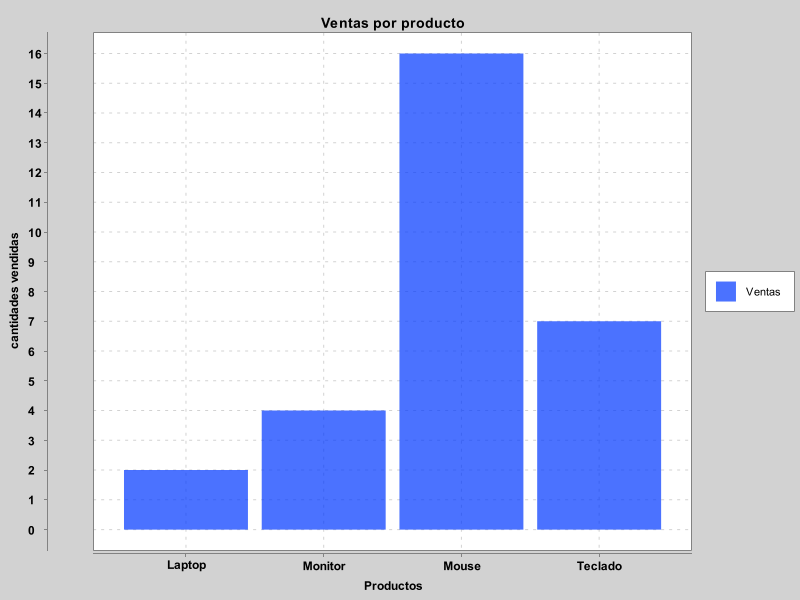
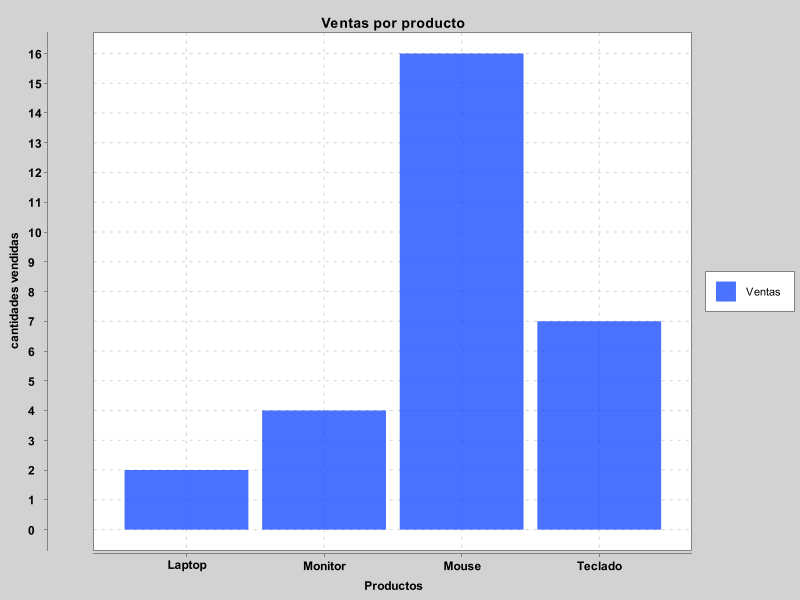
corregir cantidades double demasiado grandes

diff --git a/src/main/java/org/example/servicios/GeneradorDePrompt.java b/src/main/java/org/example/servicios/GeneradorDePrompt.java
@@ -1,11 +1,13 @@
 package org.example.servicios;
 import java.util.HashMap;
+import java.util.Locale;
 
 public class GeneradorDePrompt {
     private CalculadoraVenta calculadoraVenta;
     public GeneradorDePrompt(CalculadoraVenta calculadoraVenta){
         this.calculadoraVenta = calculadoraVenta;
     }
+
     // Genera una tabla con el nombre de cada producto y la cantidad total de unidades vendidas.
     public String generarTablaCantidades() {
 
@@ -28,21 +30,24 @@ public class GeneradorDePrompt {
         return tabla;
     }
     public String generarPrompt(){
-        double valorTotalVentas = calculadoraVenta.totalVentas();
-        int cantidadTotalVendida = calculadoraVenta.cantidadTotalVentas();
+        String valorTotalVentas = String.format(Locale.US, "%.1f", calculadoraVenta.totalVentas());
+
+        int cantidadTotalVendida = calculadoraVenta.cantidadTotalUnidadesVendidas();
         String productoMayoresGananciasBrutas = calculadoraVenta.productoMayoresGananciasBrutas();
         String productoMasVendido = calculadoraVenta.productoMasVendido();
         double valorPromedioVentas = calculadoraVenta.valorPromedioVentas();
         String tablaProductosxCantidades = generarTablaCantidades();
         String tablaProductosxValoresTotales = generarTablaValores();
+        int cantidadRegistros = calculadoraVenta.cantidadTotalVentas();
         String resumen =  """
             RESUMEN DE INDICADORES DE VENTAS
 
             1. Valor total de ventas: %s
             2. Cantidad total de unidades vendidas: %d
-            3. producto con mayor valor acumulado de ventas : %s
+            3. Producto con mayor valor acumulado de ventas : %s
             4. Producto más vendido por cantidad: %s
             5. Valor promedio de ventas por registro: %s
+            6. Cantidad de registros de ventas: %d
 
             TABLA DE CANTIDADES VENDIDAS POR PRODUCTO:
             %s
@@ -55,6 +60,7 @@ public class GeneradorDePrompt {
                 productoMayoresGananciasBrutas,
                 productoMasVendido,
                 valorPromedioVentas,
+                cantidadRegistros,
                 tablaProductosxCantidades,
                 tablaProductosxValoresTotales
         );

diff --git a/src/main/java/org/example/Main.java b/src/main/java/org/example/Main.java
@@ -20,9 +20,9 @@ public class Main {
         System.out.println("========== RESUMEN DE VENTAS ==========");
 
         System.out.println("Valor total de ventas: $ " + String.format("%.1f", calculadoraVenta.totalVentas()));
-        System.out.println("Cantidad total de unidades vendidas: " + calculadoraVenta.cantidadTotalVentas());
-        System.out.println("Producto más vendido: $ " + calculadoraVenta.productoMasVendido());
-        System.out.println("Producto con mayor valor acumulado: $ " + calculadoraVenta.productoMayoresGananciasBrutas());
+        System.out.println("Cantidad total de unidades vendidas: " + calculadoraVenta.cantidadTotalUnidadesVendidas());
+        System.out.println("Producto más vendido:  " + calculadoraVenta.productoMasVendido());
+        System.out.println("Producto con mayor valor acumulado:  " + calculadoraVenta.productoMayoresGananciasBrutas());
         System.out.println("Valor promedio de ventas: $ " + calculadoraVenta.valorPromedioVentas());
         // Muestra la tabla de cantidades vendidas por producto.
         System.out.println("\n========== CANTIDADES VENDIDAS POR PRODUCTO ==========");

diff --git a/src/test/java/org/example/servicios/GeneradorDePromptTest.java b/src/test/java/org/example/servicios/GeneradorDePromptTest.java
@@ -53,12 +53,11 @@ class GeneradorDePromptTest {
 
         assertTrue(prompt.contains("Actúa como un analista de datos"));
         assertTrue(prompt.contains("RESUMEN DE INDICADORES DE VENTAS"));
-
-        assertTrue(prompt.contains("Valor total de ventas: 1.293E7"));
-        assertTrue(prompt.contains("Cantidad total de unidades vendidas: 5"));
-
+        assertTrue(prompt.contains("Valor total de ventas: 12930000.0"));
+        assertTrue(prompt.contains("Cantidad total de unidades vendidas: 29"));
         assertTrue(prompt.contains("Laptop: 7000000.0"));
         assertTrue(prompt.contains("Mouse: 16"));
+        assertTrue(prompt.contains("Cantidad de registros de ventas: 5"));
 
         assertTrue(prompt.contains("TABLA DE CANTIDADES VENDIDAS POR PRODUCTO"));
         assertTrue(prompt.contains("TABLA DE VALORES TOTALES DE VENTAS POR PRODUCTO"));

diff --git a/src/main/java/org/example/reporte/GeneradorDeGrafica.java b/src/main/java/org/example/reporte/GeneradorDeGrafica.java
@@ -23,7 +23,8 @@ public class GeneradorDeGrafica {
                 .xAxisTitle("Productos")
                 .yAxisTitle("Valor de acumulado ventas")
                 .build();
-        //Se utilizan arreglos porque primero necesitas organizar los datos de los productos y sus valores en dos colecciones que tengan la misma cantidad de elementos y mantengan una correspondencia por posición.
+
+        grafica.getStyler().setYAxisDecimalPattern("#,##0");
         grafica.addSeries("Ventas", Arrays.asList(productos), Arrays.stream(totalValores).boxed().toList());
 
         new SwingWrapper<>(grafica).displayChart();

diff --git a/src/main/java/org/example/servicios/CalculadoraVenta.java b/src/main/java/org/example/servicios/CalculadoraVenta.java
@@ -64,6 +64,14 @@ public class CalculadoraVenta {
         }
         return cantidadRegistros;
     }
+    // Calcula la cantidad total de unidades vendidas sumando las cantidades de todos los productos.
+    public int cantidadTotalUnidadesVendidas() {
+        int total = 0;
+        for (int cantidad : cantidadesVendidad().values()) {
+            total += cantidad;
+        }
+        return total;
+    }
 
     // Calcula la cantidad total de unidades vendidas de un producto específico.
     public int canidadTotalvendidaPorProducto(String producto) {

diff --git a/src/test/java/org/example/servicios/CalculadoraVentaTest.java b/src/test/java/org/example/servicios/CalculadoraVentaTest.java
@@ -29,6 +29,11 @@ class CalculadoraVentaTest {
     }
 
     @Test
+    void probarCantidadTotalUnidadesVendidas() {
+        assertEquals(29, calculadoraVenta.cantidadTotalUnidadesVendidas());
+    }
+
+    @Test
     void probarCantidadTotalVentas() {
         assertEquals(5, calculadoraVenta.cantidadTotalVentas());
     }
